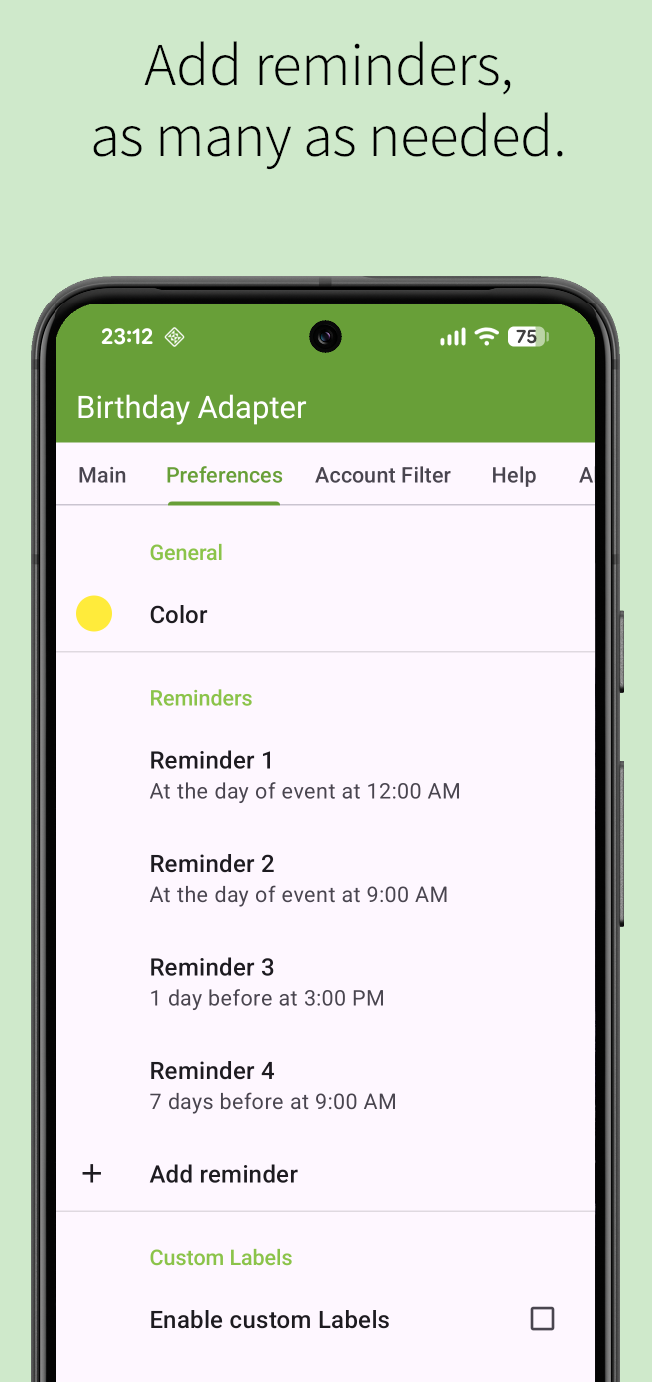
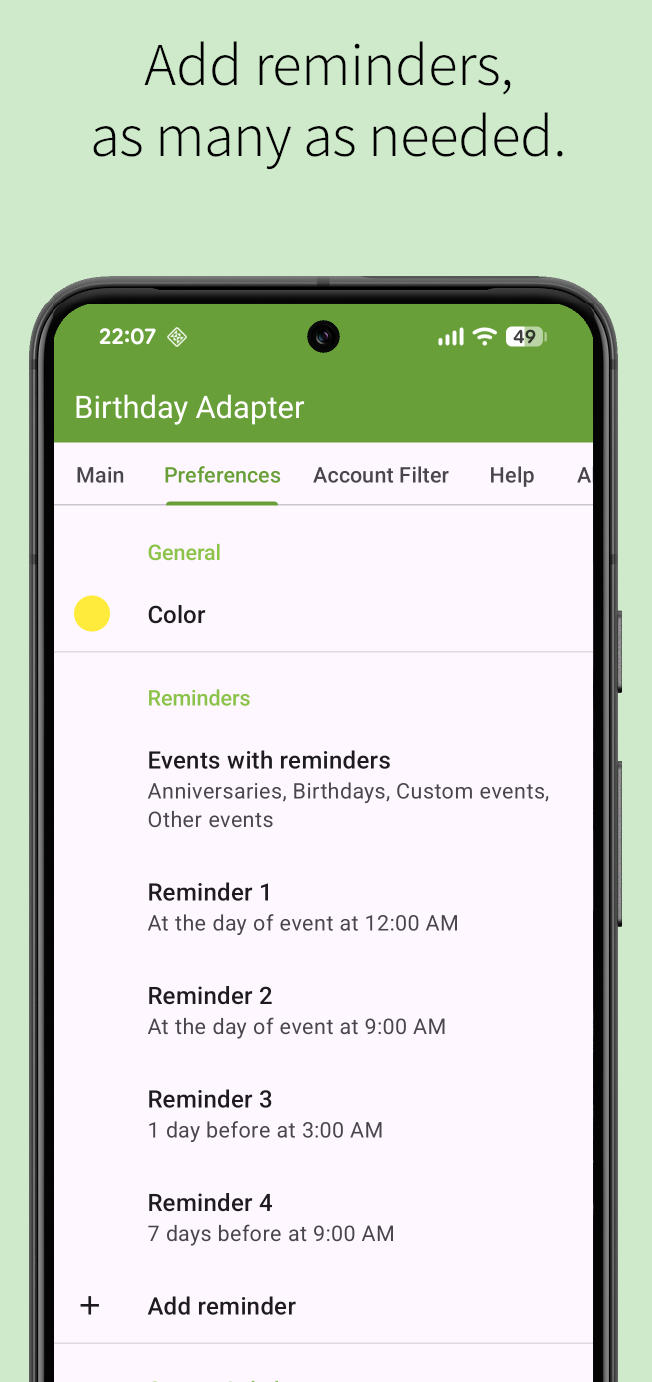
Select which event types have reminders

diff --git a/Birthday-Calendar/src/main/java/org/birthdayadapter/ui/ExtendedPreferencesFragment.java b/Birthday-Calendar/src/main/java/org/birthdayadapter/ui/ExtendedPreferencesFragment.java
@@ -40,6 +40,7 @@ import android.widget.EditText;
 import androidx.annotation.NonNull;
 import androidx.annotation.Nullable;
 import androidx.appcompat.app.AlertDialog;
+import androidx.preference.MultiSelectListPreference;
 import androidx.preference.Preference;
 import androidx.preference.PreferenceCategory;
 import androidx.preference.PreferenceFragmentCompat;
@@ -57,8 +58,11 @@ import org.birthdayadapter.util.Constants;
 import org.birthdayadapter.util.PreferencesHelper;
 import org.birthdayadapter.util.SyncStatusManager;
 
+import java.util.ArrayList;
 import java.util.Arrays;
+import java.util.Collections;
 import java.util.HashSet;
+import java.util.List;
 import java.util.Objects;
 import java.util.Set;
 import java.util.concurrent.TimeUnit;
@@ -110,6 +114,15 @@ public class ExtendedPreferencesFragment extends PreferenceFragmentCompat {
 
         remindersCategory = findPreference("pref_reminders_category");
         if (remindersCategory != null) {
+            MultiSelectListPreference reminderTypesPref = findPreference("pref_reminder_event_types");
+            if (reminderTypesPref != null) {
+                updateReminderEventTypesSummary(reminderTypesPref);
+                reminderTypesPref.setOnPreferenceChangeListener((preference, newValue) -> {
+                    mAccountHelper.triggerFullResync();
+                    updateReminderEventTypesSummary(reminderTypesPref, (Set<String>) newValue);
+                    return true;
+                });
+            }
             populateReminders();
         }
 
@@ -152,10 +165,55 @@ public class ExtendedPreferencesFragment extends PreferenceFragmentCompat {
                 });
     }
 
+    private void updateReminderEventTypesSummary(MultiSelectListPreference preference) {
+        updateReminderEventTypesSummary(preference, preference.getValues());
+    }
+
+    private void updateReminderEventTypesSummary(MultiSelectListPreference preference, Set<String> values) {
+        if (preference == null) return;
+
+        if (values.isEmpty()) {
+            preference.setSummary(R.string.no_events_selected);
+            return;
+        }
+
+        List<String> selectedEntries = new ArrayList<>();
+        CharSequence[] entries = preference.getEntries();
+        CharSequence[] entryValues = preference.getEntryValues();
+
+        for (String value : values) {
+            int index = -1;
+            for (int i = 0; i < entryValues.length; i++) {
+                if (entryValues[i].equals(value)) {
+                    index = i;
+                    break;
+                }
+            }
+            if (index != -1) {
+                selectedEntries.add(entries[index].toString());
+            }
+        }
+
+        Collections.sort(selectedEntries);
+        preference.setSummary(TextUtils.join(", ", selectedEntries));
+    }
+
     private void populateReminders() {
         if (getContext() == null) return;
 
+        List<Preference> prefsToKeep = new ArrayList<>();
+        for (int i = 0; i < remindersCategory.getPreferenceCount(); i++) {
+            Preference pref = remindersCategory.getPreference(i);
+            if (pref instanceof MultiSelectListPreference) {
+                prefsToKeep.add(pref);
+            }
+        }
+
         remindersCategory.removeAll();
+
+        for (Preference pref : prefsToKeep) {
+            remindersCategory.addPreference(pref);
+        }
 
         int[] reminderMinutes = PreferencesHelper.getAllReminderMinutes(getContext());
         for (int i = 0; i < reminderMinutes.length; i++) {

diff --git a/Birthday-Calendar/src/main/java/org/birthdayadapter/service/BirthdayWorker.java b/Birthday-Calendar/src/main/java/org/birthdayadapter/service/BirthdayWorker.java
@@ -46,6 +46,7 @@ import java.util.HashSet;
 import java.util.List;
 import java.util.Locale;
 import java.util.Map;
+import java.util.Set;
 import java.util.TimeZone;
 
 public class BirthdayWorker extends Worker {
@@ -185,6 +186,7 @@ public class BirthdayWorker extends Worker {
                 }
 
                 int[] reminderMinutes = PreferencesHelper.getAllReminderMinutes(context);
+                Set<String> reminderEventTypes = PreferencesHelper.getReminderEventTypes(context);
                 Log.d(Constants.TAG, "Reminder minutes: " + Arrays.toString(reminderMinutes));
                 boolean hasReminders = reminderMinutes.length > 0;
 
@@ -259,10 +261,12 @@ public class BirthdayWorker extends Worker {
                                 cal.set(Calendar.MILLISECOND, 0);
                                 long dtstart = cal.getTimeInMillis();
 
-                                Log.v(Constants.TAG, "Adding event: " + title);
-                                operationList.add(insertEvent(context, calendarId, dtstart, title, eventLookupKey, eventUid, hasReminders));
+                                boolean shouldAddReminder = hasReminders && reminderEventTypes.contains(String.valueOf(eventType));
 
-                                if (hasReminders) {
+                                Log.v(Constants.TAG, "Adding event: " + title);
+                                operationList.add(insertEvent(context, calendarId, dtstart, title, eventLookupKey, eventUid, shouldAddReminder));
+
+                                if (shouldAddReminder) {
                                     for (int minute : reminderMinutes) {
                                         ContentProviderOperation.Builder builder = ContentProviderOperation
                                                 .newInsert(CalendarHelper.getBirthdayAdapterUri(context, CalendarContract.Reminders.CONTENT_URI));

diff --git a/Birthday-Calendar/src/main/java/org/birthdayadapter/ui/BaseActivity.java b/Birthday-Calendar/src/main/java/org/birthdayadapter/ui/BaseActivity.java
@@ -22,6 +22,8 @@
 package org.birthdayadapter.ui;
 
 import android.content.SharedPreferences;
+import android.content.res.Configuration;
+import android.content.res.Resources;
 import android.os.Bundle;
 import android.view.View;
 import android.widget.ProgressBar;
@@ -47,6 +49,7 @@ import org.birthdayadapter.util.MySharedPreferenceChangeListener;
 import org.birthdayadapter.util.SyncStatusManager;
 
 import java.util.HashSet;
+import java.util.Locale;
 import java.util.Objects;
 import java.util.Set;
 
@@ -58,6 +61,9 @@ public class BaseActivity extends AppCompatActivity {
     @Override
     protected void onCreate(Bundle savedInstanceState) {
         super.onCreate(savedInstanceState);
+
+        // overwrite locale to EN, for testing and screenshots only
+        // setLocale();
 
         // Set default values from XML before any UI is created
         PreferenceManager.setDefaultValues(this, R.xml.pref_preferences, false);
@@ -105,6 +111,15 @@ public class BaseActivity extends AppCompatActivity {
                 mProgressBar.setVisibility(isSyncing ? View.VISIBLE : View.GONE);
             }
         });
+    }
+
+    private void setLocale() {
+        Locale locale = new Locale("en");
+        Locale.setDefault(locale);
+        Resources resources = getResources();
+        Configuration config = resources.getConfiguration();
+        config.setLocale(locale);
+        resources.updateConfiguration(config, resources.getDisplayMetrics());
     }
 
     @Override

diff --git a/Birthday-Calendar/src/main/java/org/birthdayadapter/util/PreferencesHelper.java b/Birthday-Calendar/src/main/java/org/birthdayadapter/util/PreferencesHelper.java
@@ -94,6 +94,17 @@ public class PreferencesHelper {
         return result;
     }
 
+    public static Set<String> getReminderEventTypes(Context context) {
+        SharedPreferences prefs = PreferenceManager.getDefaultSharedPreferences(context);
+        Set<String> defaultValues = new HashSet<>(Arrays.asList(
+                String.valueOf(ContactsContract.CommonDataKinds.Event.TYPE_BIRTHDAY),
+                String.valueOf(ContactsContract.CommonDataKinds.Event.TYPE_ANNIVERSARY),
+                String.valueOf(ContactsContract.CommonDataKinds.Event.TYPE_OTHER),
+                String.valueOf(ContactsContract.CommonDataKinds.Event.TYPE_CUSTOM)
+        ));
+        return prefs.getStringSet("pref_reminder_event_types", defaultValues);
+    }
+
     public static String getLabel(Context context, int eventType, boolean includeAge) {
         SharedPreferences prefs = PreferenceManager.getDefaultSharedPreferences(context);
 
